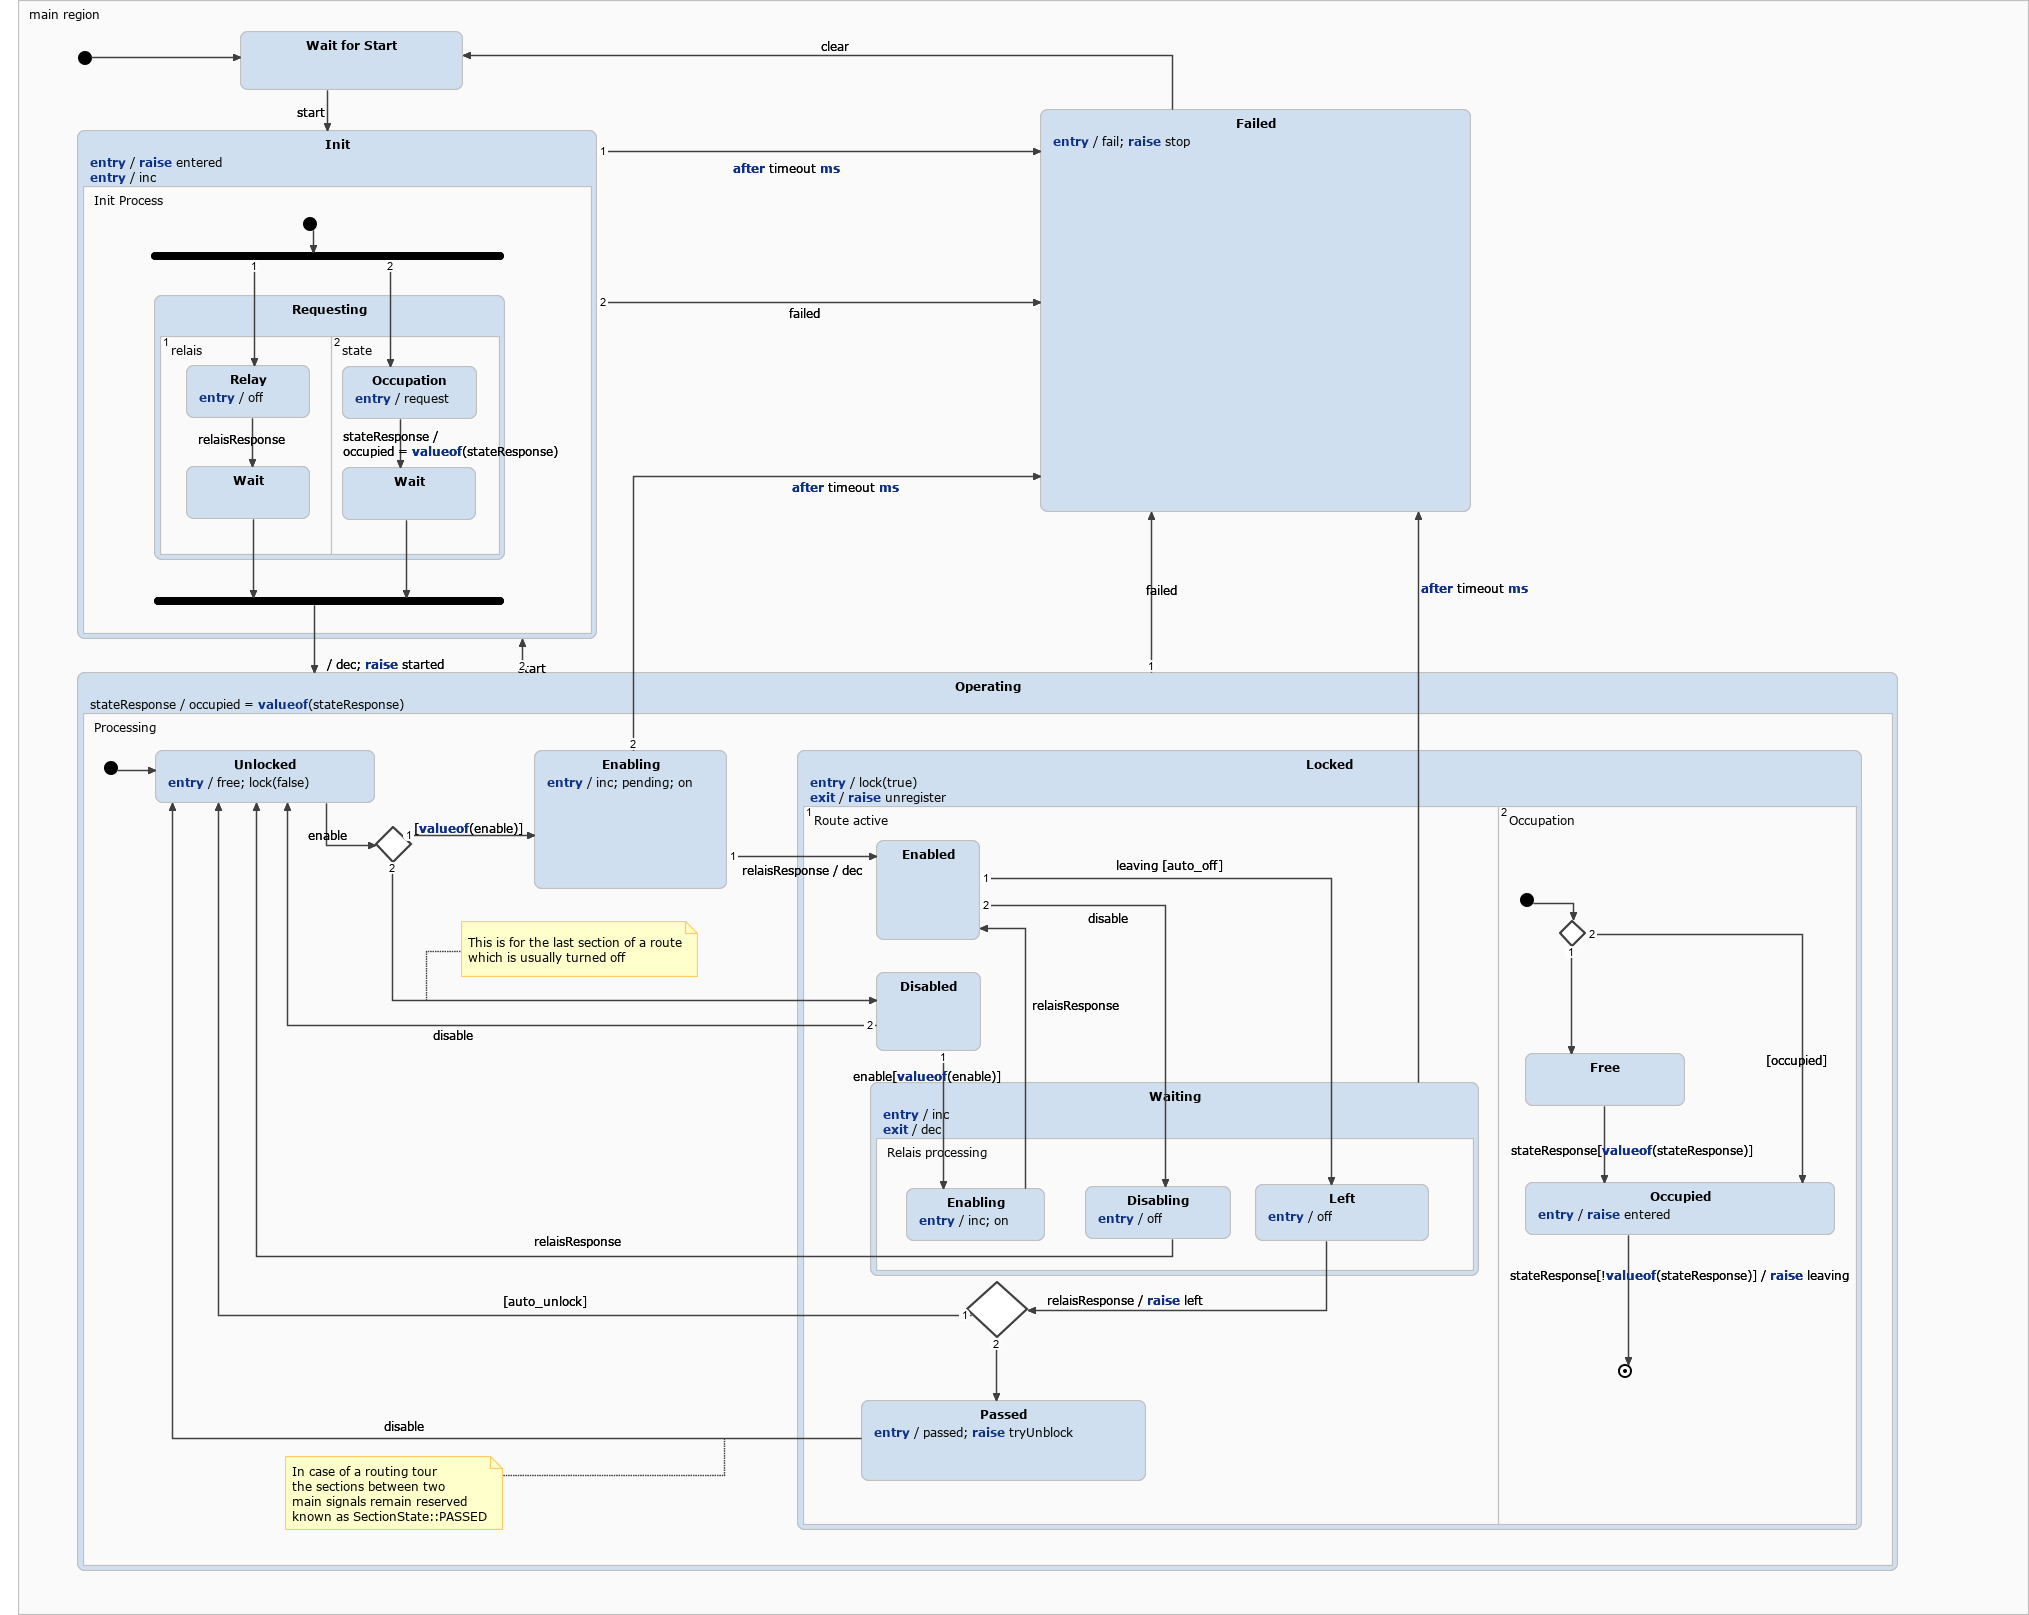
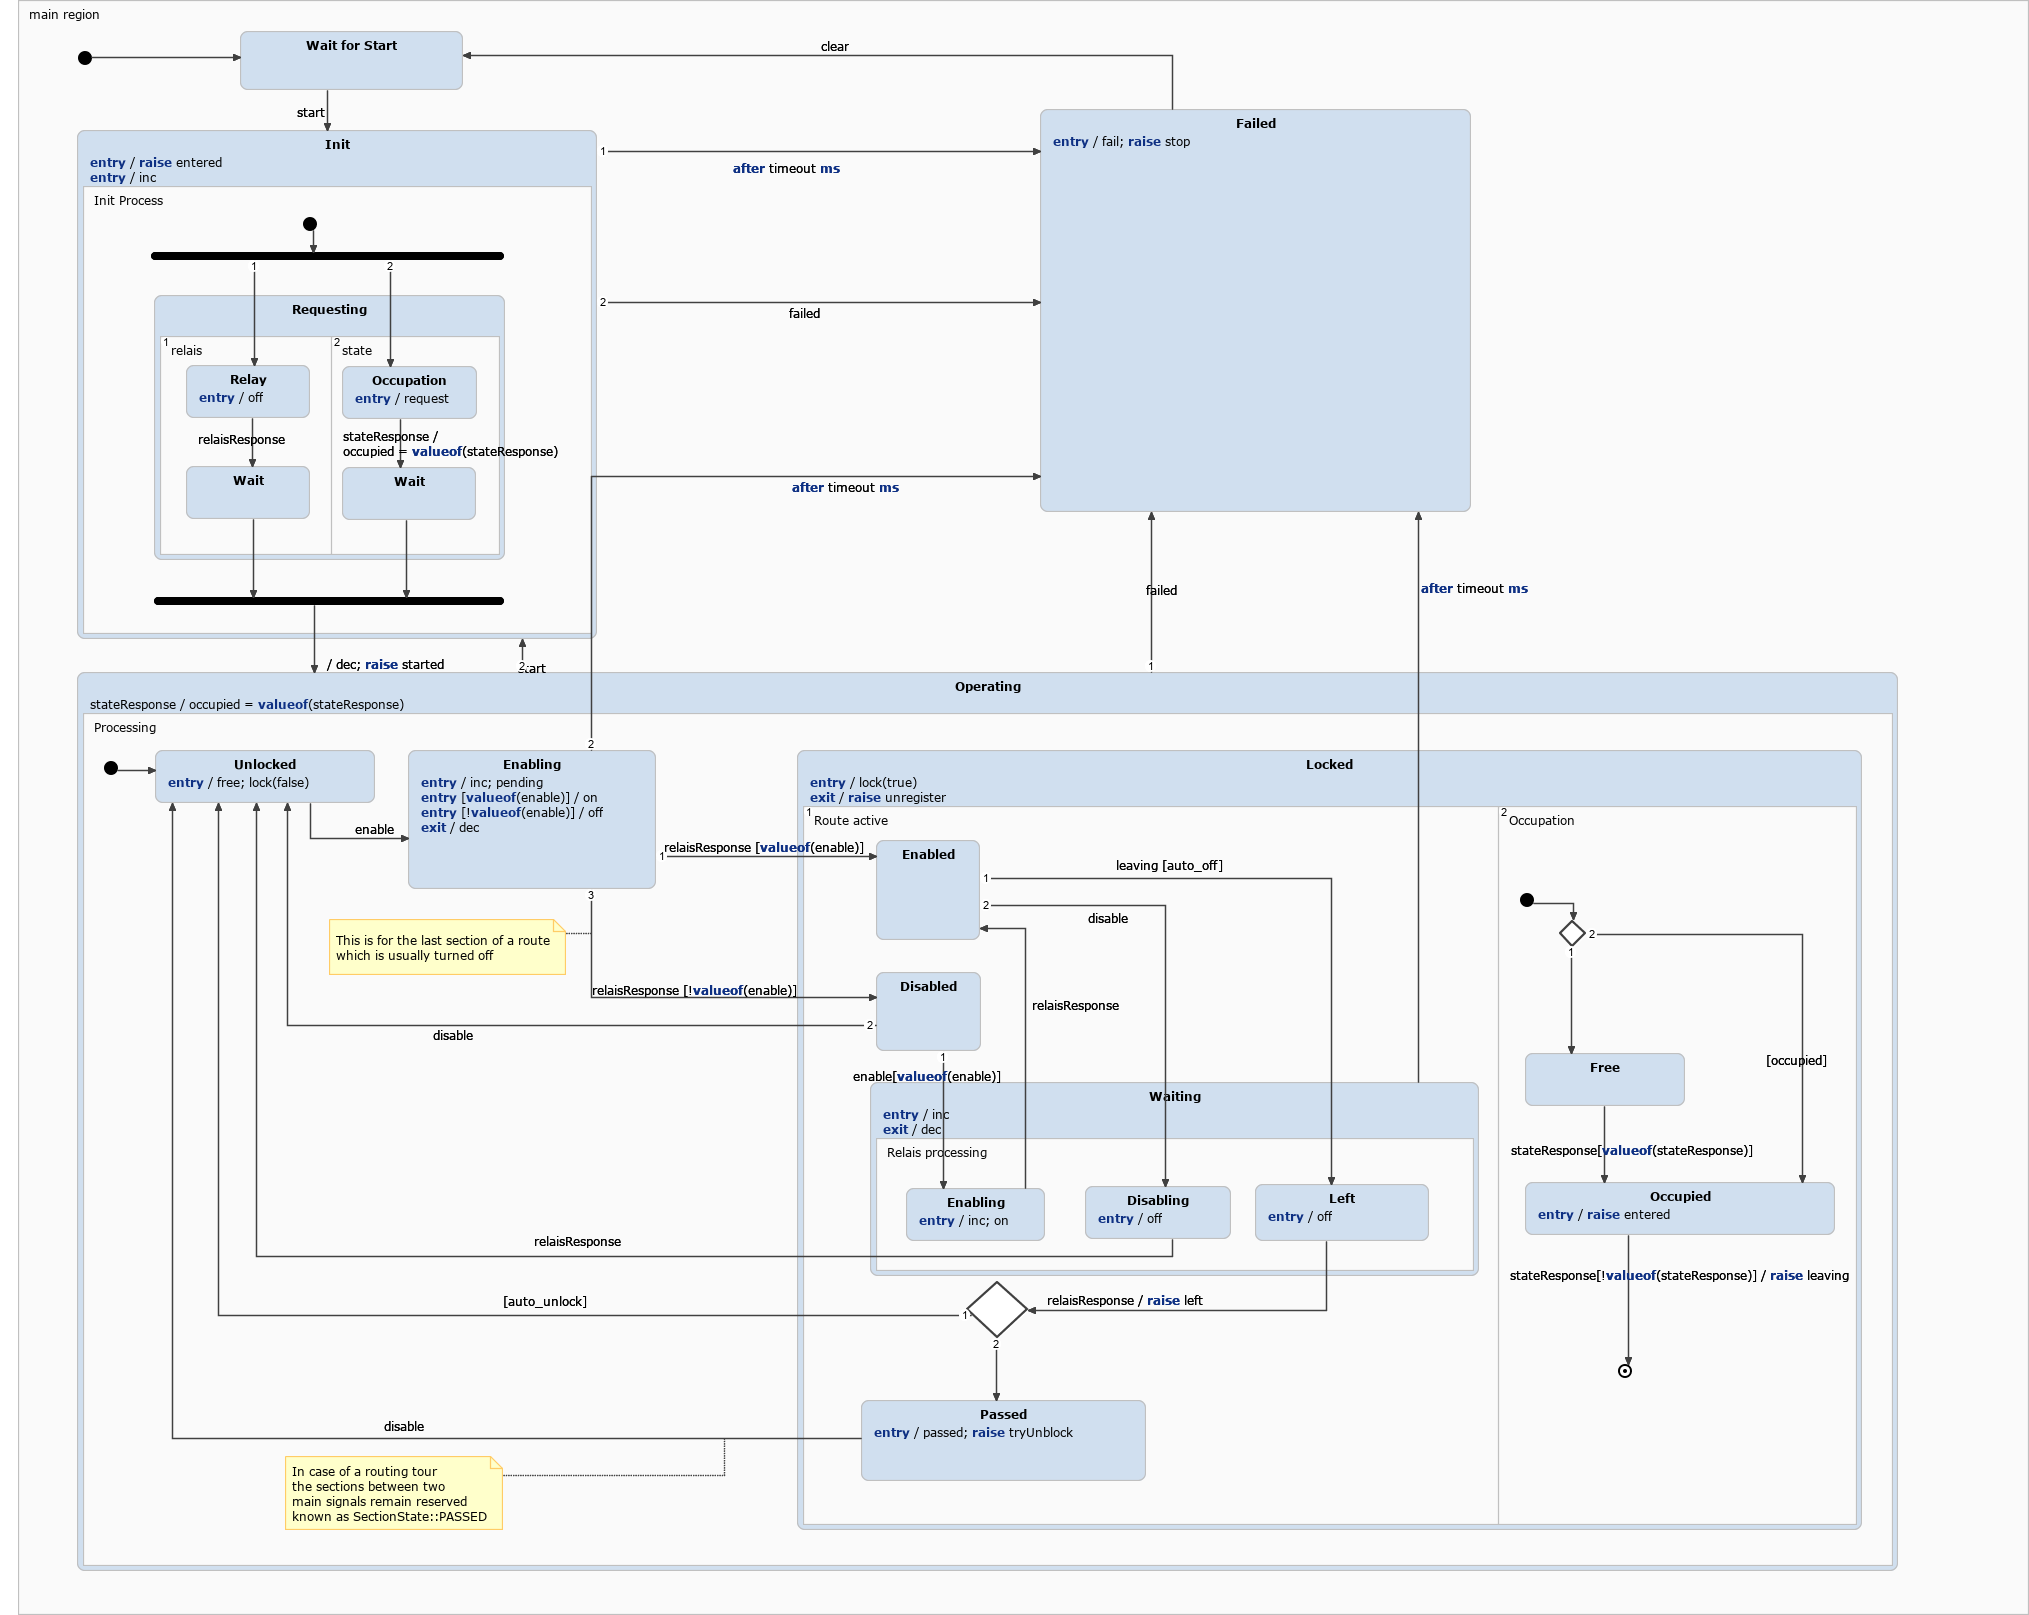
Changed last section handling in routing.

Changed region(s): [[0.1552, 0.4644, 0.4036, 0.6192]]

diff --git a/tools/tracker/trackerservice.cpp b/tools/tracker/trackerservice.cpp
@@ -47,7 +47,14 @@ void TrackerService::process(const MrwMessage & message)
 			break;
 
 		case SETROF:
-			remove(message.eid(), message.unitNo());
+			if (driving)
+			{
+				remove(message.eid(), message.unitNo());
+			}
+			else if (track.empty())
+			{
+				append(message.eid(), message.unitNo(), false);
+			}
 			break;
 
 		default:
@@ -57,7 +64,7 @@ void TrackerService::process(const MrwMessage & message)
 	}
 }
 
-void TrackerService::append(const ControllerId id, const UnitNo unitNo)
+void TrackerService::append(const ControllerId id, const UnitNo unitNo, const bool enable)
 {
 	Device  * device  = model->deviceById(id, unitNo);
 	Section * section = dynamic_cast<Section *>(device);
@@ -67,6 +74,7 @@ void TrackerService::append(const ControllerId id, const UnitNo unitNo)
 		throw std::invalid_argument(QString::asprintf(
 				"Device not found: %04x:%04x", id, unitNo).toStdString());
 	}
+	section->enable(enable);
 	track.push_front(section);
 	qDebug().noquote() << *section;
 
@@ -89,67 +97,35 @@ void TrackerService::remove(const ControllerId id, const UnitNo unitNo)
 	track.remove(section);
 }
 
-bool TrackerService::prepareLast()
-{
-	std::unordered_set<Section *> forward;
-	std::unordered_set<Section *> backward;
-	std::vector<Rail *>           rails;
-	auto                          it     = track.rbegin();
-	Section           *           last   = *it++;
-	Section           *           lookup = *it;
-	Section           *           next   = nullptr;
-
-	last->parts<Rail>(rails);
-
-	for (Rail * rail : rails)
-	{
-		Route::isLastSectionEnded(forward,  rail, true);
-		Route::isLastSectionEnded(backward, rail, false);
-	}
-
-	if (forward.empty() || backward.empty())
-	{
-		return false;
-	}
-
-	if (forward.find(lookup) != forward.end())
-	{
-		auto first = backward.begin();
-
-		next = *first;
-	}
-	else if (backward.find(lookup) != backward.end())
-	{
-		auto first = forward.begin();
-
-		next = *first;
-	}
-	else
-	{
-		qCritical("Section not found in neighbour hood!");
-		return false;
-	}
-
-	qDebug("Appending last off turned section:");
-	track.push_back(next);
-	qDebug().noquote() << *next;
-
-	return true;
-}
-
 void TrackerService::trigger()
 {
 	Section * section = nullptr;
 
 	if (position == track.end())
 	{
-		prepareLast();
+		size_t on  = std::count_if(track.begin(), track.end(), [](Section * candidate)
+		{
+			return candidate->enabled();
+		});
+		size_t off = std::count_if(track.begin(), track.end(), [](Section * candidate)
+		{
+			return !candidate->enabled();
+		});
+
+		if ((on == 0) || (off > 1))
+		{
+			qWarning().noquote() << "Sections on:  " << on;
+			qWarning().noquote() << "Sections off: " << off;
+			track.clear();
+			return;
+		}
 
 		// First init!
 		position = track.begin();
 		previous = position;
 		section  = *position;
 		section->setOccupation();
+		driving = true;
 	}
 	else if (position == previous)
 	{
@@ -180,6 +156,8 @@ void TrackerService::trigger()
 	{
 		qDebug("End of track reached!");
 		track.clear();
+		driving = false;
+
 		return;
 	}
 	else

diff --git a/statecharts/SectionStatechart.cpp b/statecharts/SectionStatechart.cpp
@@ -518,7 +518,14 @@ namespace mrw
 			timerService->setTimer(this, 2, timeout, false);
 			ifaceOperationCallback->inc();
 			ifaceOperationCallback->pending();
-			ifaceOperationCallback->on();
+			if (enable_value)
+			{
+				ifaceOperationCallback->on();
+			}
+			if (!enable_value)
+			{
+				ifaceOperationCallback->off();
+			}
 		}
 
 		/* Entry action for state 'Failed'. */
@@ -556,6 +563,7 @@ namespace mrw
 		{
 			/* Exit action for state 'Enabling'. */
 			timerService->unsetTimer(this, 2);
+			ifaceOperationCallback->dec();
 		}
 
 		/* 'default' enter sequence for state Init */
@@ -1353,22 +1361,6 @@ namespace mrw
 			}
 		}
 
-		/* The reactions of state null. */
-		void SectionStatechart::react_main_region_Operating_Processing__choice_0()
-		{
-			/* The reactions of state null. */
-			if (enable_value)
-			{
-				enseq_main_region_Operating_Processing_Enabling_default();
-			}
-			else
-			{
-				enact_main_region_Operating_Processing_Locked();
-				enseq_main_region_Operating_Processing_Locked_Route_active_Disabled_default();
-				enseq_main_region_Operating_Processing_Locked_Occupation_default();
-			}
-		}
-
 		/* Default react sequence for initial entry  */
 		void SectionStatechart::react_main_region__entry_Default()
 		{
@@ -1591,7 +1583,8 @@ namespace mrw
 				if (enable_raised)
 				{
 					exseq_main_region_Operating_Processing_Unlocked();
-					react_main_region_Operating_Processing__choice_0();
+					enseq_main_region_Operating_Processing_Enabling_default();
+					main_region_Operating_react(0);
 					transitioned_after = 0;
 				}
 			}
@@ -1838,10 +1831,9 @@ namespace mrw
 			sc::integer transitioned_after = transitioned_before;
 			if ((transitioned_after) < (0))
 			{
-				if (relaisResponse_raised)
+				if (((relaisResponse_raised)) && ((enable_value)))
 				{
 					exseq_main_region_Operating_Processing_Enabling();
-					ifaceOperationCallback->dec();
 					enact_main_region_Operating_Processing_Locked();
 					enseq_main_region_Operating_Processing_Locked_Route_active_Enabled_default();
 					enseq_main_region_Operating_Processing_Locked_Occupation_default();
@@ -1857,6 +1849,18 @@ namespace mrw
 						enseq_main_region_Failed_default();
 						react(0);
 						transitioned_after = 0;
+					}
+					else
+					{
+						if (((relaisResponse_raised)) && ((!enable_value)))
+						{
+							exseq_main_region_Operating_Processing_Enabling();
+							enact_main_region_Operating_Processing_Locked();
+							enseq_main_region_Operating_Processing_Locked_Route_active_Disabled_default();
+							enseq_main_region_Operating_Processing_Locked_Occupation_default();
+							main_region_Operating_react(0);
+							transitioned_after = 0;
+						}
 					}
 				}
 			}

diff --git a/model/section.h b/model/section.h
@@ -85,7 +85,8 @@ namespace mrw::model
 		Controller         *         section_controller = nullptr;
 		SectionModule        *       section_module     = nullptr;
 		SectionState                 section_state      = FREE;
-		bool                         occupied           = false;
+		bool                         section_enabled    = false;
+		bool                         section_occupied   = false;
 		std::vector<AssemblyPart *>  assembly_parts;
 		std::vector<Signal *>        forward_signals;
 		std::vector<Signal *>        backward_signals;
@@ -123,6 +124,40 @@ namespace mrw::model
 		 * @return True if this Section is occupied by a train.
 		 */
 		bool occupation() const;
+
+		/**
+		 * This method marks this Section as enabled.
+		 *
+		 * @note This is only for simuation purposes and does not have any
+		 * influence on driving duty.
+		 *
+		 * @param enable The enable flag.
+		 * @see mrw::can::Command::SETRON
+		 */
+		void enable(const bool enable = true);
+
+		/**
+		 * This method marks this Section as disabled.
+		 *
+		 * @note This is only for simuation purposes and does not have any
+		 * influence on driving duty.
+		 *
+		 * @param enable The disable flag.
+		 * @see mrw::can::Command::SETROF
+		 */
+		void disable(const bool disable = true);
+
+		/**
+		 * This method returns the enabled state of this Section.
+		 *
+		 * @note This is only for simuation purposes and does not have any
+		 * influence on driving duty.
+		 *
+		 * @returns True if this Section is enabled.
+		 * @see mrw::can::Command::SETROF
+		 * @see mrw::can::Command::SETRON
+		 */
+		bool enabled() const;
 
 		/**
 		 * This method returns the SectionState of this Section.

diff --git a/tools/tracker/trackerservice.h b/tools/tracker/trackerservice.h
@@ -24,7 +24,8 @@ class TrackerService : public mrw::can::MrwBusService
 	mrw::model::Route::SectionTrack::iterator   position;
 	mrw::model::Route::SectionTrack::iterator   previous;
 
-	QTimer                           timer;
+	QTimer                                      timer;
+	bool                                        driving = false;
 
 public:
 	TrackerService() = delete;
@@ -39,9 +40,13 @@ protected:
 	virtual void process(const mrw::can::MrwMessage & message) override;
 
 private:
-	void append(const mrw::can::ControllerId id, const mrw::can::UnitNo unitNo);
-	void remove(const mrw::can::ControllerId id, const mrw::can::UnitNo unitNo);
-	bool prepareLast();
+	void append(
+			const mrw::can::ControllerId id,
+			const mrw::can::UnitNo       unitNo,
+			const bool                   enable = true);
+	void remove(
+			const mrw::can::ControllerId id,
+			const mrw::can::UnitNo       unitNo);
 
 private slots:
 	void trigger();

diff --git a/model/section.cpp b/model/section.cpp
@@ -162,12 +162,27 @@ const QString & Section::name() const
 
 void Section::setOccupation(const bool input)
 {
-	occupied = input;
+	section_occupied = input;
 }
 
 bool Section::occupation() const
 {
-	return occupied;
+	return section_occupied;
+}
+
+void Section::enable(const bool enable)
+{
+	section_enabled = enable;
+}
+
+void Section::disable(const bool disable)
+{
+	section_enabled = !disable;
+}
+
+bool Section::enabled() const
+{
+	return section_enabled;
 }
 
 bool Section::isUnlockable() const
@@ -186,7 +201,7 @@ bool Section::isUnlockable() const
 
 SectionState Section::state() const
 {
-	return occupied ? OCCUPIED : section_state;
+	return section_occupied ? OCCUPIED : section_state;
 }
 
 void Section::setState(const SectionState input)

diff --git a/test/testmodel.cpp b/test/testmodel.cpp
@@ -507,6 +507,18 @@ void TestModel::testSection(Region * region, Section * section)
 	QVERIFY(section->isUnlockable());
 	QCOMPARE(section->region(), region);
 
+	section->enable();
+	QVERIFY(section->enabled());
+
+	section->enable(false);
+	QVERIFY(!section->enabled());
+
+	section->disable(false);
+	QVERIFY(section->enabled());
+
+	section->disable();
+	QVERIFY(!section->enabled());
+
 	SectionModule * module = section->module();
 
 	QVERIFY2(module != nullptr, section->name().toStdString().c_str());

diff --git a/statecharts/SectionStatechart.h b/statecharts/SectionStatechart.h
@@ -404,7 +404,6 @@ namespace mrw
 			void exseq_main_region_Operating_Processing_Locked_Occupation();
 			void react_main_region_Operating_Processing_Locked_Route_active__choice_0();
 			void react_main_region_Operating_Processing_Locked_Occupation__choice_0();
-			void react_main_region_Operating_Processing__choice_0();
 			void react_main_region__entry_Default();
 			void react_main_region_Init_Init_Process__entry_Default();
 			void react_main_region_Operating_Processing__entry_Default();
